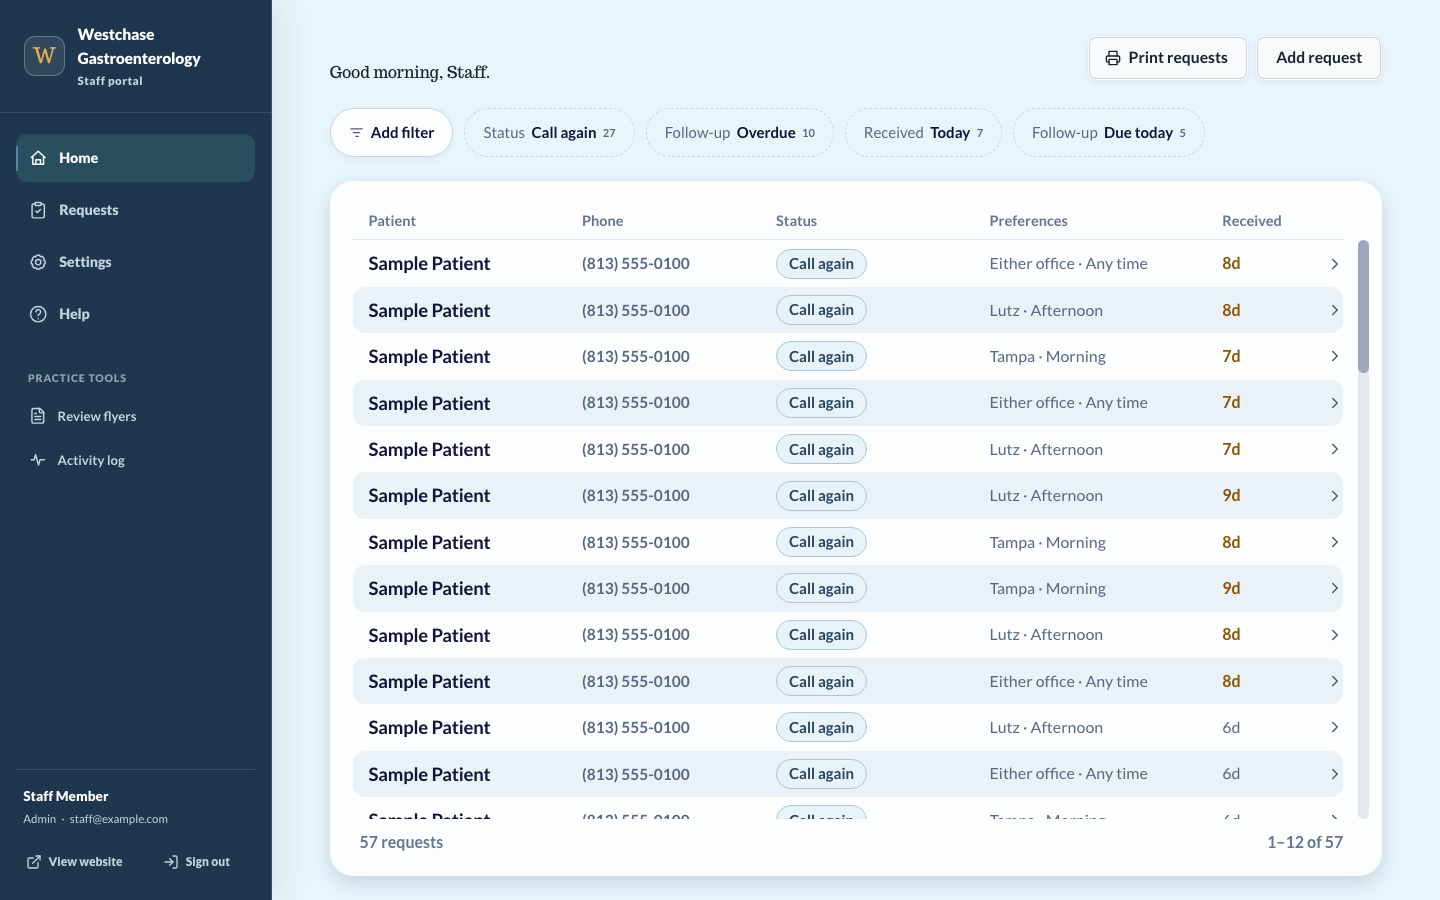
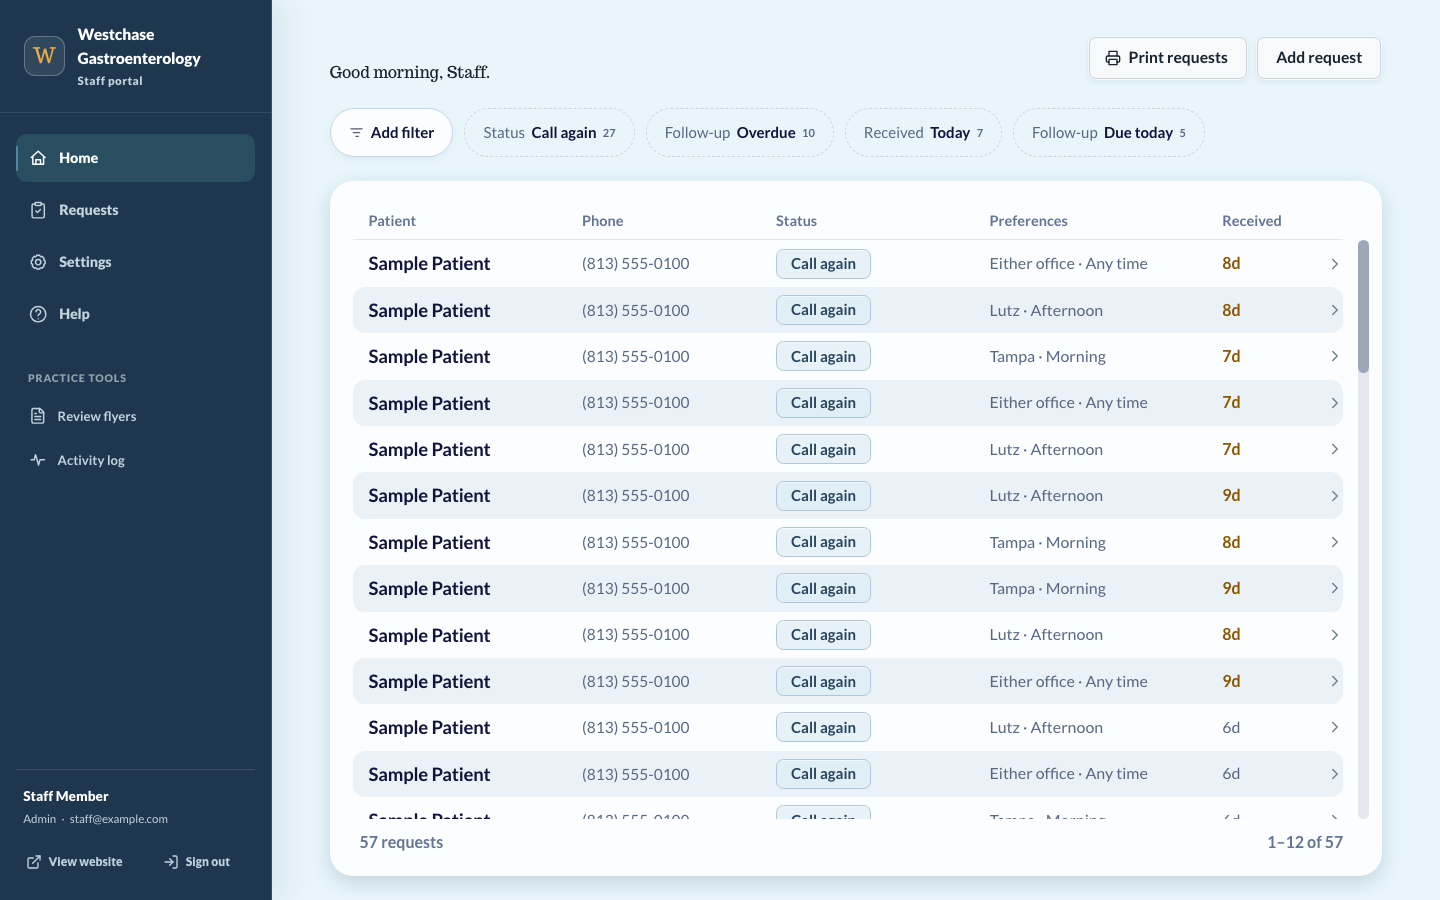
style(portal): Home card hierarchy, chevron ink and glass status badges (#300)
The Home list card read heavier and darker than the Figma frame (GrBLYZSAxioZ8syWPHChlb, node 3:46). Three causes, one file:

- The phone number and the Preferences / Received cells asked for Lato 600 and 500. The site loads Lato 400, 700 and 900 only, so both fell to 700 and the number sat as heavy as the name. They are 400 now, the loaded weight nearest the frame's SemiBold / Medium.
- The row chevron was the muted ink. It is a control boundary, not text, so it takes the brand control ink (--color-line-3, 3.86 on the surface, 3.15 on the open tint) and darkens to the page ink on hover, open and focus as before.
- Status badges were pills. They take the frame's geometry (30px, 7.5px corners, 1.3px stroke, 14px sides, 15px bold) and one glass recipe for every status: a 65% translucent fill that lets the row band show through, the status stroke, and a 1px white top highlight. No backdrop filter: a band is a flat tint, and 57 filters would cost a compositor layer each. Scheduled and Closed take the same glass from the brand tokens. Every status keeps a badge.

The frame's New ink (#a15a19) reads 4.34 on the open tint through the translucent fill, so it is taken 0.02 down in oklch lightness to #9b5410 (4.72 there, 5.08 on the surface). Call again ink is 8.3+ everywhere. The muted ink stays the AA-capped #576883 rather than the frame's #7284a0 (3.05 to 3.73). No transition or animation rule changed.
[…]

diff --git a/src/app/admin/(portal)/(home)/home.css b/src/app/admin/(portal)/(home)/home.css
@@ -231,10 +231,18 @@
   --wgi-cmd-fill: #f8f9fb;
   --wgi-cmd-stroke: #ccd3dd;
   --wgi-cmd-shadow: 0 2px 6px rgba(27, 51, 74, 0.08);
-  --wgi-badge-new-fill: #fff0dc;
+  /* Status badges are glass (issue #300): a 65% fill that lands on the
+     frame's paint over the surface (#fff0dc, #e7f3f8) and lets each row band
+     show through, the frame's 1.3px stroke, 7.5px corners. The New ink is
+     the frame's #a15a19 taken 0.02 down in oklch lightness, same hue and
+     chroma, because the translucent fill sits darker on the open tint:
+     5.08 on the surface, 4.87 on the band, 4.72 on the open tint (the
+     frame's ink reads 4.34 there). Call again ink is 8.5+ everywhere. */
+  --wgi-badge-radius: 7.5px;
+  --wgi-badge-new-fill: rgb(255 232 201 / 0.65);
   --wgi-badge-new-stroke: #ffcb89;
-  --wgi-badge-new-ink: #a15a19;
-  --wgi-badge-contacted-fill: #e7f3f8;
+  --wgi-badge-new-ink: #9b5410;
+  --wgi-badge-contacted-fill: rgb(218 236 244 / 0.65);
   --wgi-badge-contacted-stroke: #adc6da;
   --wgi-badge-contacted-ink: #28435d;
 }
@@ -548,7 +556,10 @@
   color: var(--wgi-muted-ink);
   font-size: var(--wgi-phone-size);
   font-variant-numeric: tabular-nums;
-  font-weight: 600;
+  /* The frame sets the number in Lato SemiBold. The site loads Lato 400,
+     700 and 900 only (src/lib/fonts.ts), so 600 rendered as 700 and the
+     number sat as heavy as the name. Regular keeps it a step under. */
+  font-weight: 400;
   white-space: nowrap;
 }
 
@@ -595,7 +606,8 @@ a.appt-phone:hover {
   color: var(--wgi-muted-ink);
   font-size: 1rem;
   font-variant-numeric: tabular-nums;
-  font-weight: 500;
+  /* Lato Medium in the frame; 400 is the weight that is loaded. */
+  font-weight: 400;
   text-overflow: ellipsis;
 }
 
@@ -608,7 +620,10 @@ a.appt-phone:hover {
 }
 
 /* The row-opening affordance: a chevron button at the right edge. The row
-   itself is the wider target; this is the one the keyboard reaches. */
+   itself is the wider target; this is the one the keyboard reaches. At rest
+   it is a control boundary, not text: the frame draws it in its light slate,
+   and the brand's control ink is that value (3.86 on the surface, 3.15 on
+   the open tint, over the 3:1 floor); it darkens to the page ink on hover. */
 .appt-line-trigger {
   display: inline-flex;
   width: 2rem;
@@ -619,7 +634,7 @@ a.appt-phone:hover {
   border-radius: var(--radius-sm);
   background: transparent;
   padding: 0;
-  color: var(--color-muted-ink);
+  color: var(--color-line-3);
   cursor: pointer;
   outline: none;
   -webkit-tap-highlight-color: transparent;
@@ -905,9 +920,15 @@ a.appt-phone:hover {
 }
 
 /* ---------- Status badge (fresh StockBadge conversion) ----------
-   30px tall pills, 15px bold, a 1.3px stroke; New and Call again carry the
-   frame's paints (New ink is 4.70 on its fill), the others keep the
-   portal's. */
+   The frame's badge: 30px tall, 7.5px corners, 15px bold, a 1.3px stroke,
+   14px sides. One glass recipe for every status (issue #300): a translucent
+   fill so the row band shows through, the status stroke, and a 1px white
+   highlight along the top edge that reads as the pane. Nothing is blurred:
+   a row band is a flat tint, so there is nothing for a backdrop filter to
+   soften and 57 filters would cost a compositor layer each. Every status
+   stays a badge; none is text alone. Each ink's floor is on the open tint
+   (the darkest band): New 4.72, Call again 8.3, Scheduled 6.2, Closed 4.9
+   in the row's own muted ink. */
 
 .wgi-badge {
   display: inline-flex;
@@ -918,8 +939,9 @@ a.appt-phone:hover {
   justify-content: center;
   overflow: hidden;
   border: 1.3px solid transparent;
-  border-radius: 999px;
-  padding: 0 0.75rem;
+  border-radius: var(--wgi-badge-radius);
+  padding: 0 0.875rem;
+  box-shadow: inset 0 1px 0 rgb(255 255 255 / 0.6);
   font-size: var(--pt-sm);
   font-weight: 700;
   letter-spacing: 0;
@@ -939,15 +961,16 @@ a.appt-phone:hover {
   border-color: var(--wgi-badge-contacted-stroke);
 }
 
+/* The portal's own statuses on the same glass, from the brand tokens. */
 .wgi-badge-scheduled {
-  background: color-mix(in oklch, var(--color-navy) 12%, white);
+  background: color-mix(in srgb, var(--color-navy) 12%, transparent);
   color: var(--color-navy);
-  border-color: color-mix(in oklch, var(--color-navy) 32%, white);
+  border-color: color-mix(in srgb, var(--color-navy) 32%, transparent);
 }
 
 .wgi-badge-closed {
-  background: transparent;
-  color: var(--color-muted-ink);
+  background: rgb(255 255 255 / 0.35);
+  color: var(--wgi-muted-ink);
   border-color: var(--color-line-2);
 }
 
